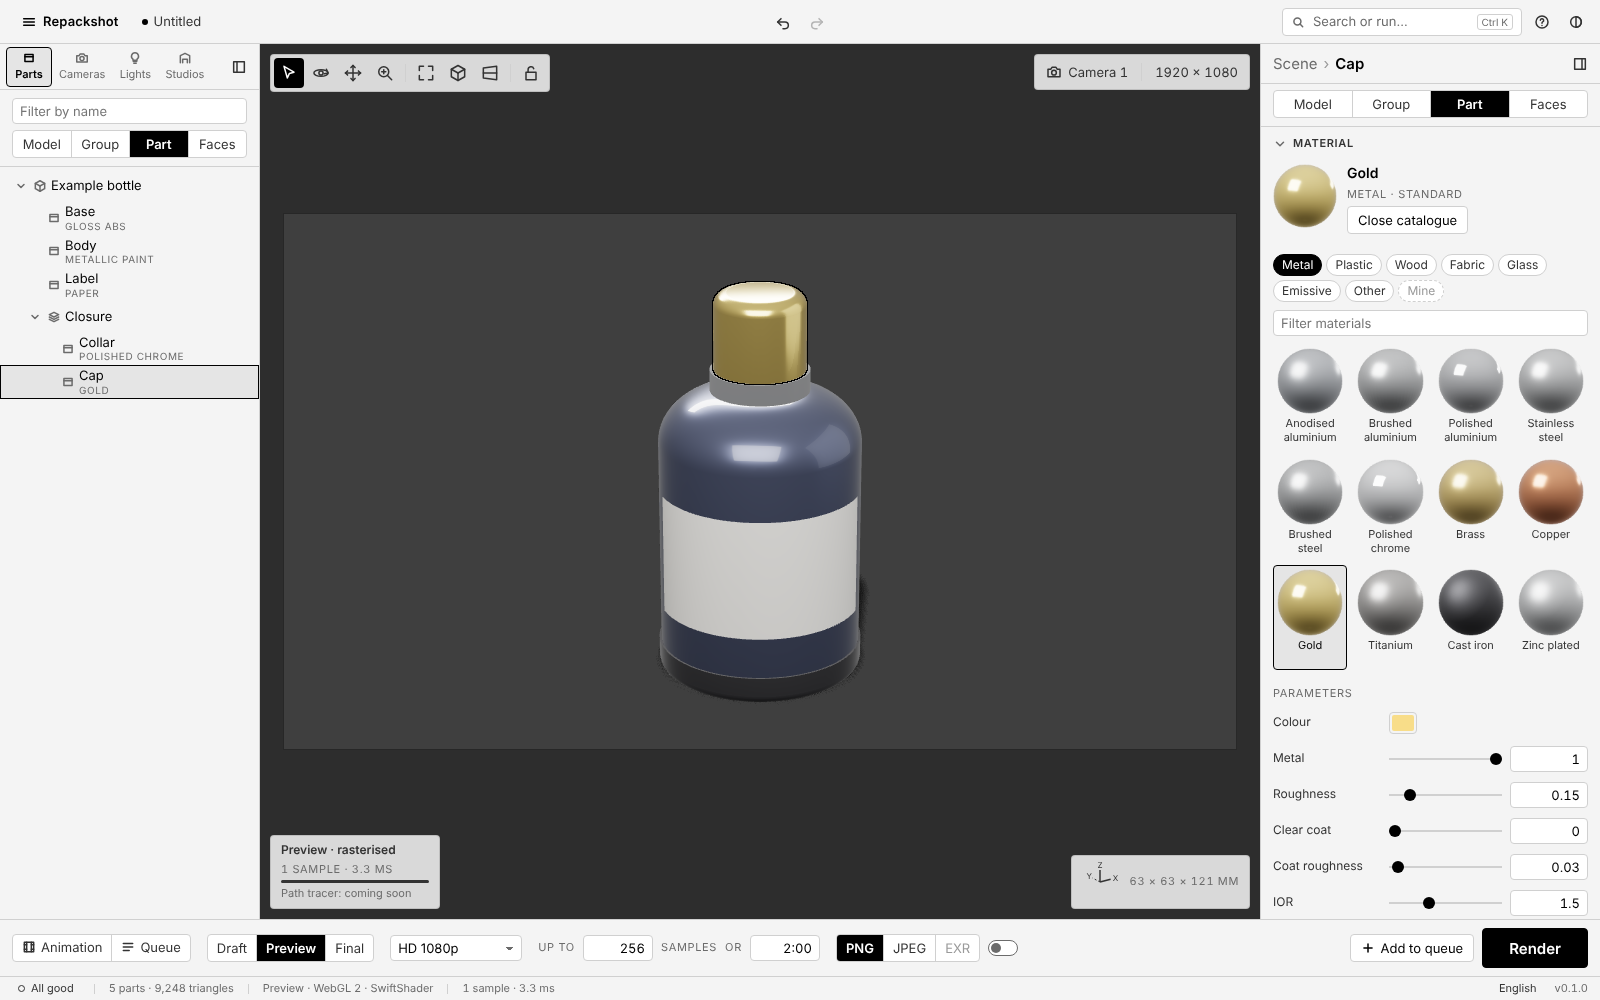
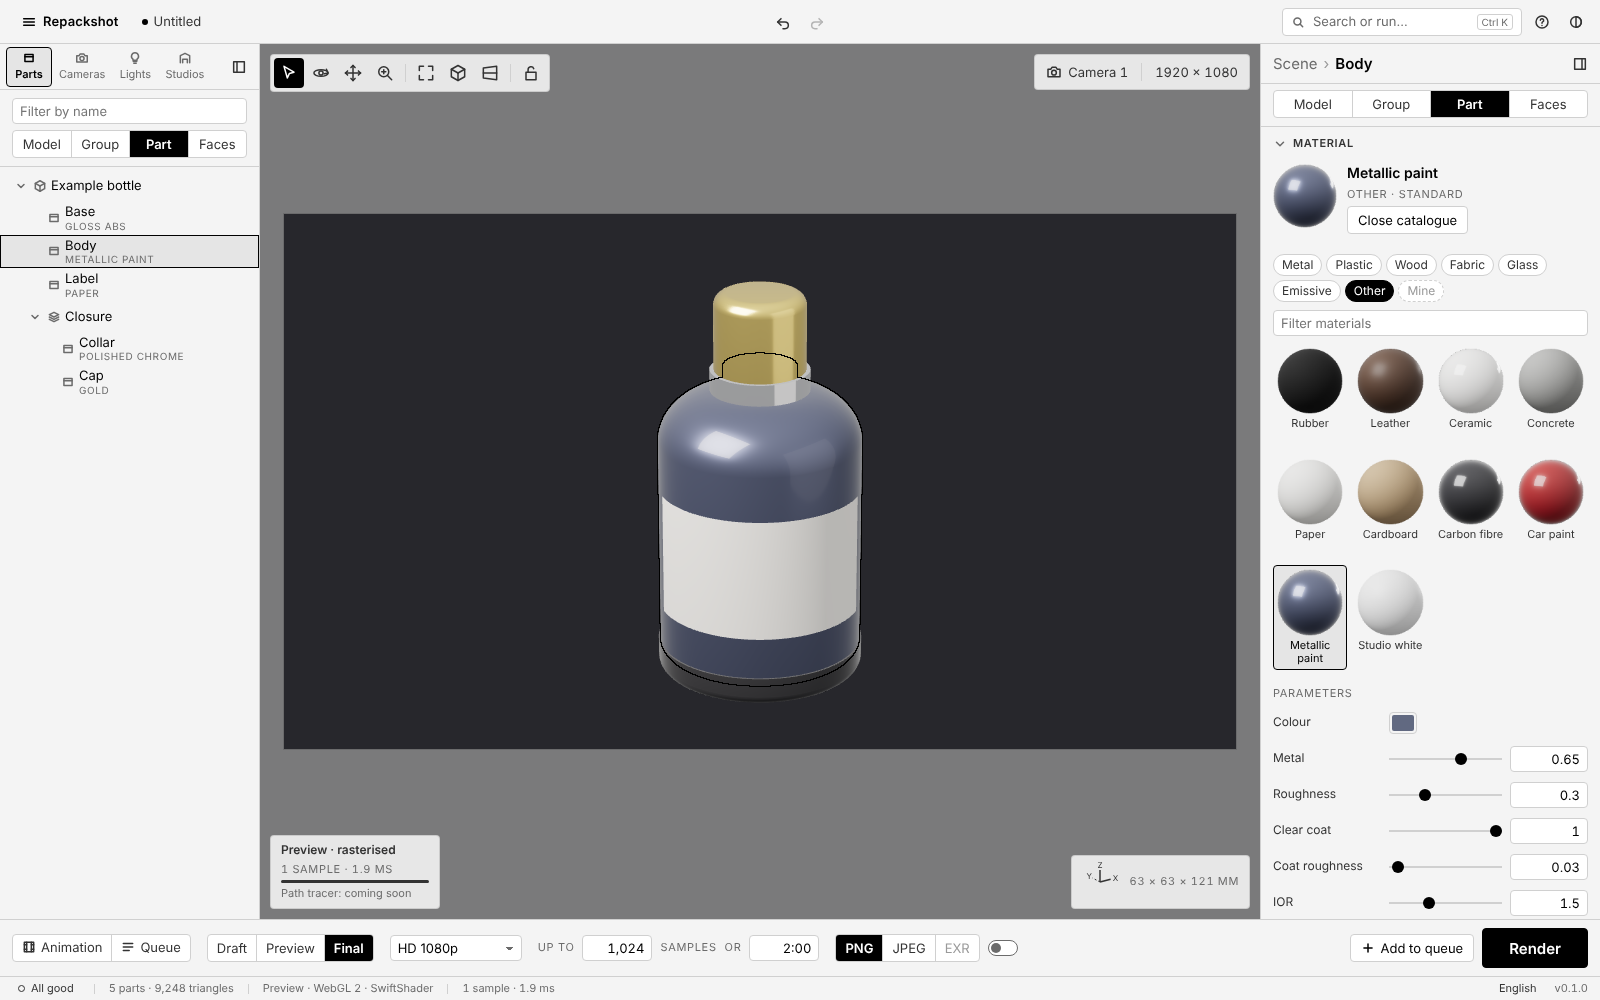
Interface (phase U1 closed): light-theme viewport surround, final screenshots
The area outside the output frame now follows each theme's viewport
grey; docs/ui screenshots retaken (dark studio, light theme with the
material catalogue, animation drawer with the HERO preset at t = 2 s).
npm run qa: types, 201 tests in 16 files, build.

Claude-Session: https://claude.ai/code/session_01Vyw8CoEN48cqBKpA2hjydX

diff --git a/src/ui/theme.css b/src/ui/theme.css
@@ -16,7 +16,8 @@
   --viewport-bg: #8c8c8c;
   --overlay: rgba(255, 255, 255, 0.82);
   --overlay-line: rgba(0, 0, 0, 0.12);
-  --mask: rgba(0, 0, 0, 0.28);
+  /* Outside the output frame: the theme's neutral viewport grey over the render. */
+  --mask: rgba(140, 140, 140, 0.82);
   --soft: rgba(0, 0, 0, 0.06);
   --shadow: 0 8px 28px rgba(0, 0, 0, 0.18), 0 1px 3px rgba(0, 0, 0, 0.12);
   --inv-bg: #000000;
@@ -54,7 +55,7 @@
   --viewport-bg: #262626;
   --overlay: rgba(14, 14, 14, 0.78);
   --overlay-line: rgba(255, 255, 255, 0.1);
-  --mask: rgba(0, 0, 0, 0.42);
+  --mask: rgba(38, 38, 38, 0.8);
   --soft: rgba(255, 255, 255, 0.07);
   --shadow: 0 10px 32px rgba(0, 0, 0, 0.6), 0 1px 3px rgba(0, 0, 0, 0.5);
   --inv-bg: #ffffff;
